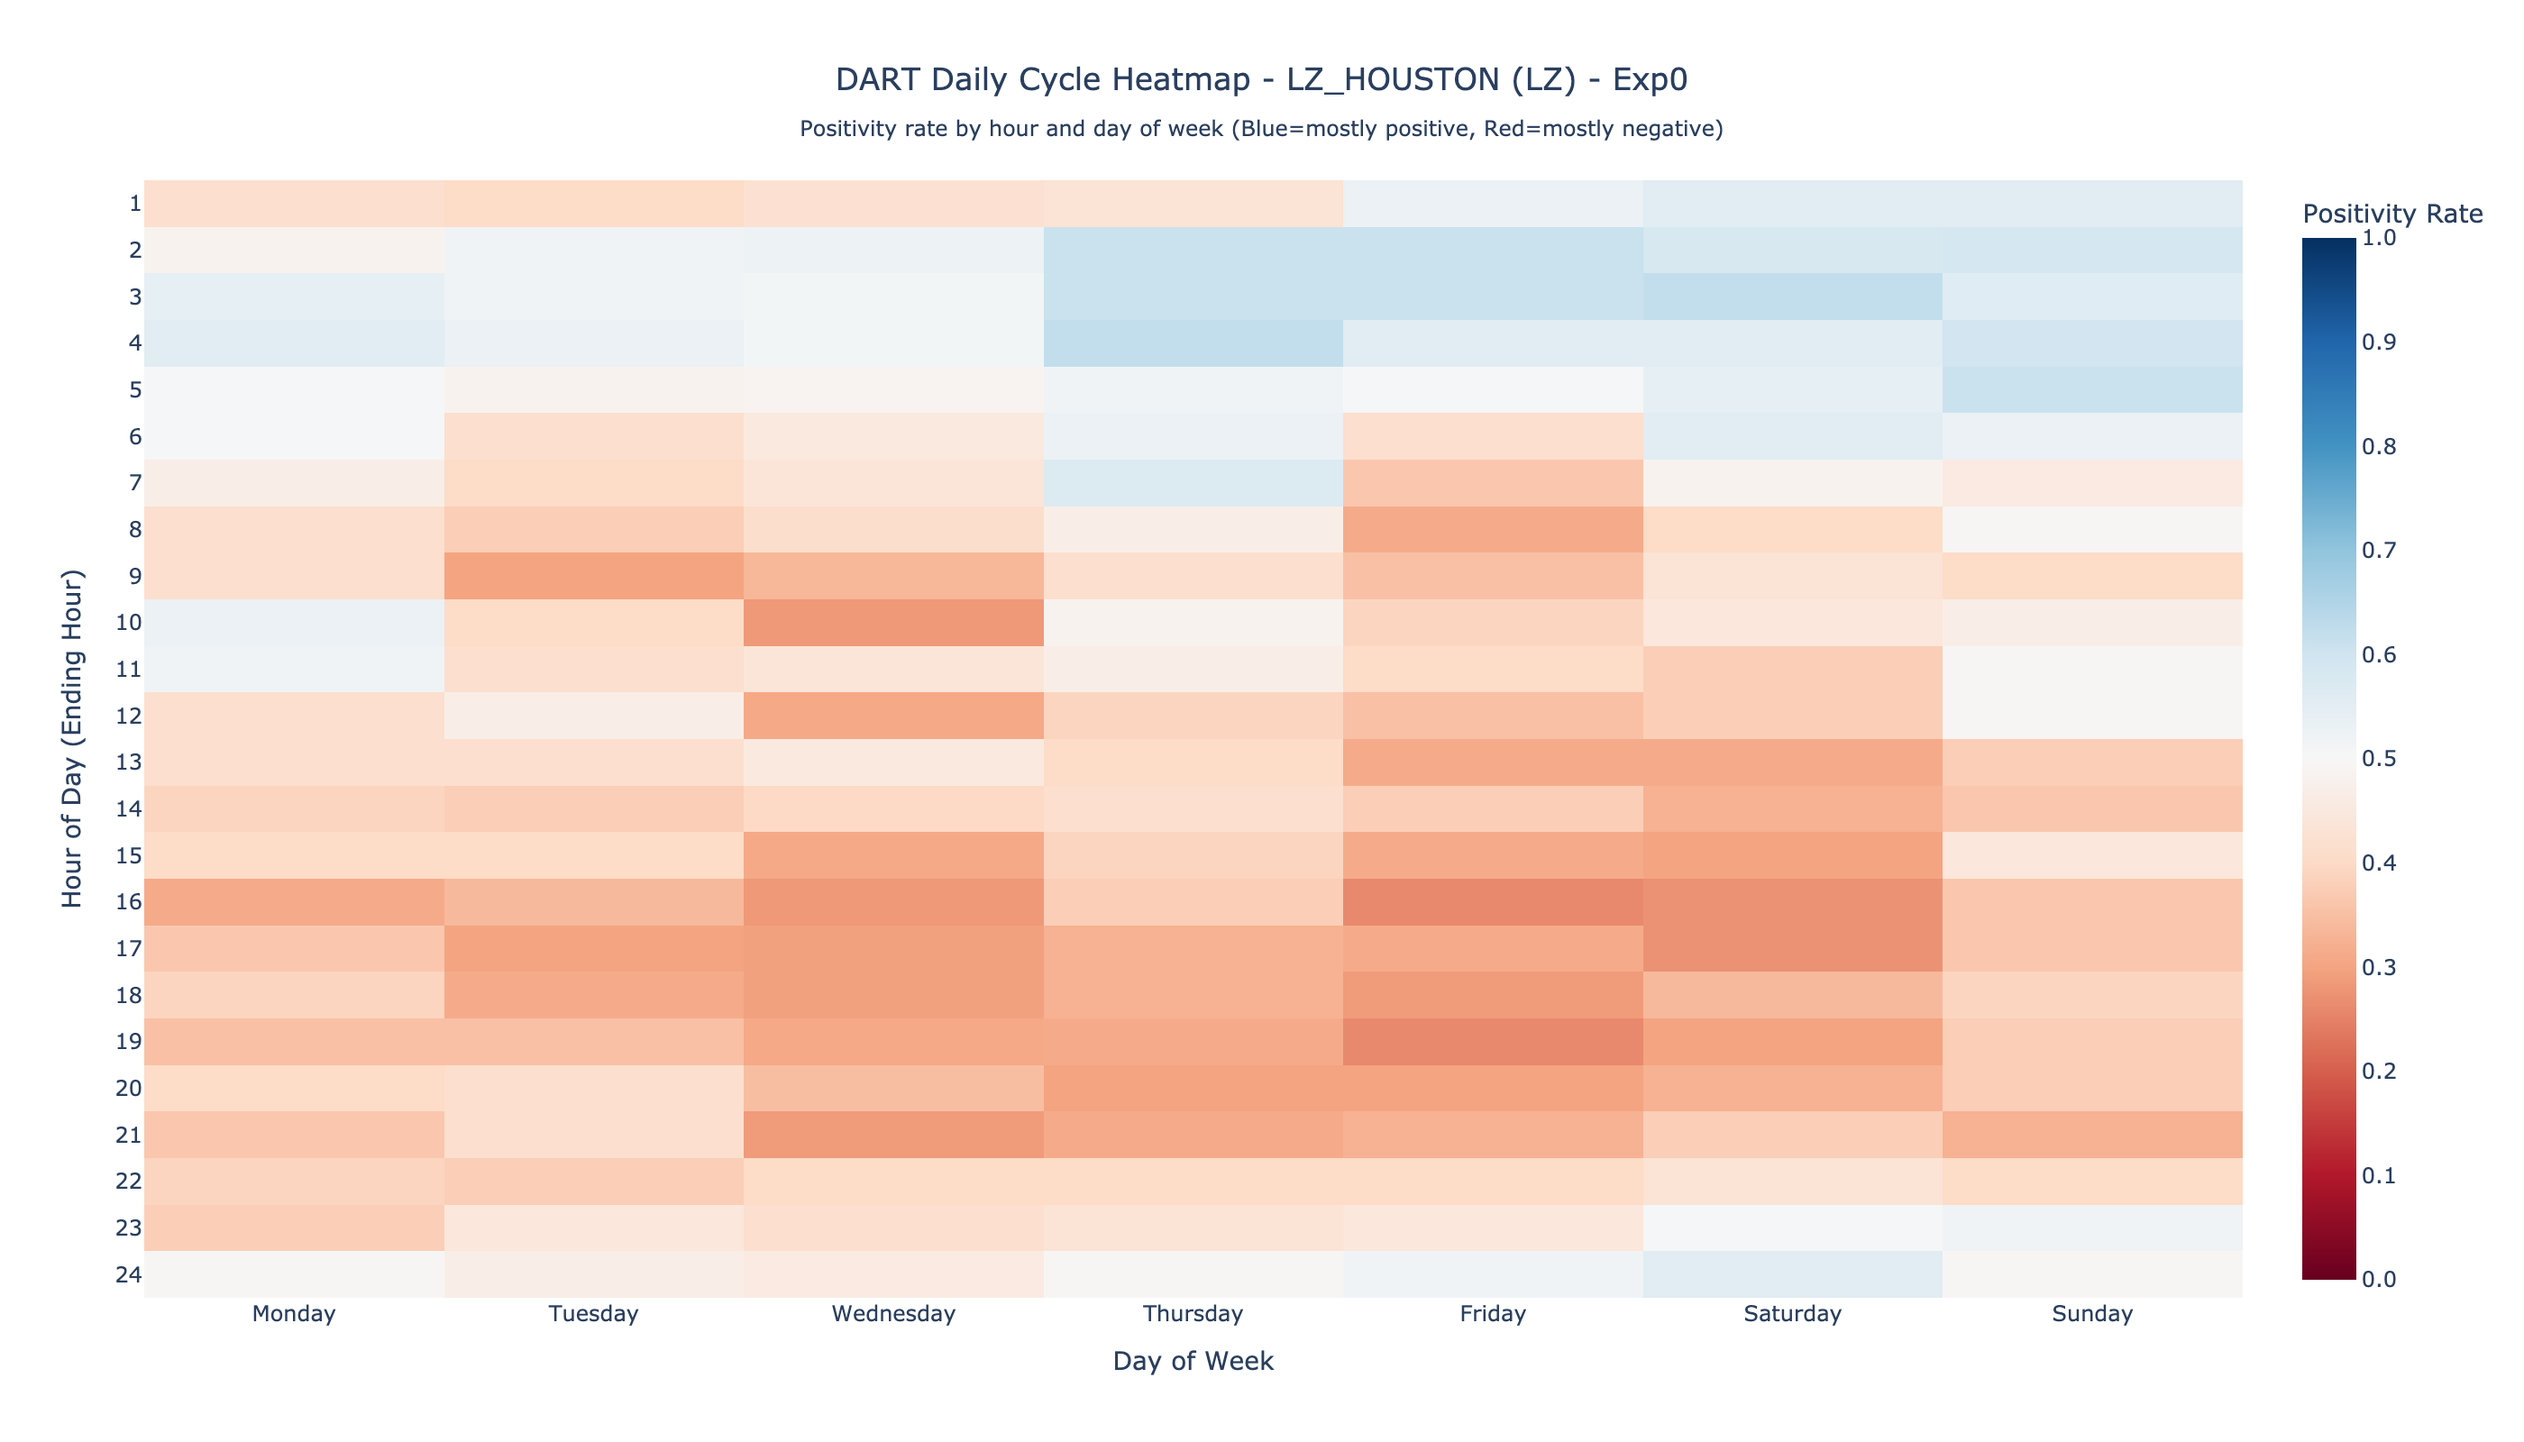
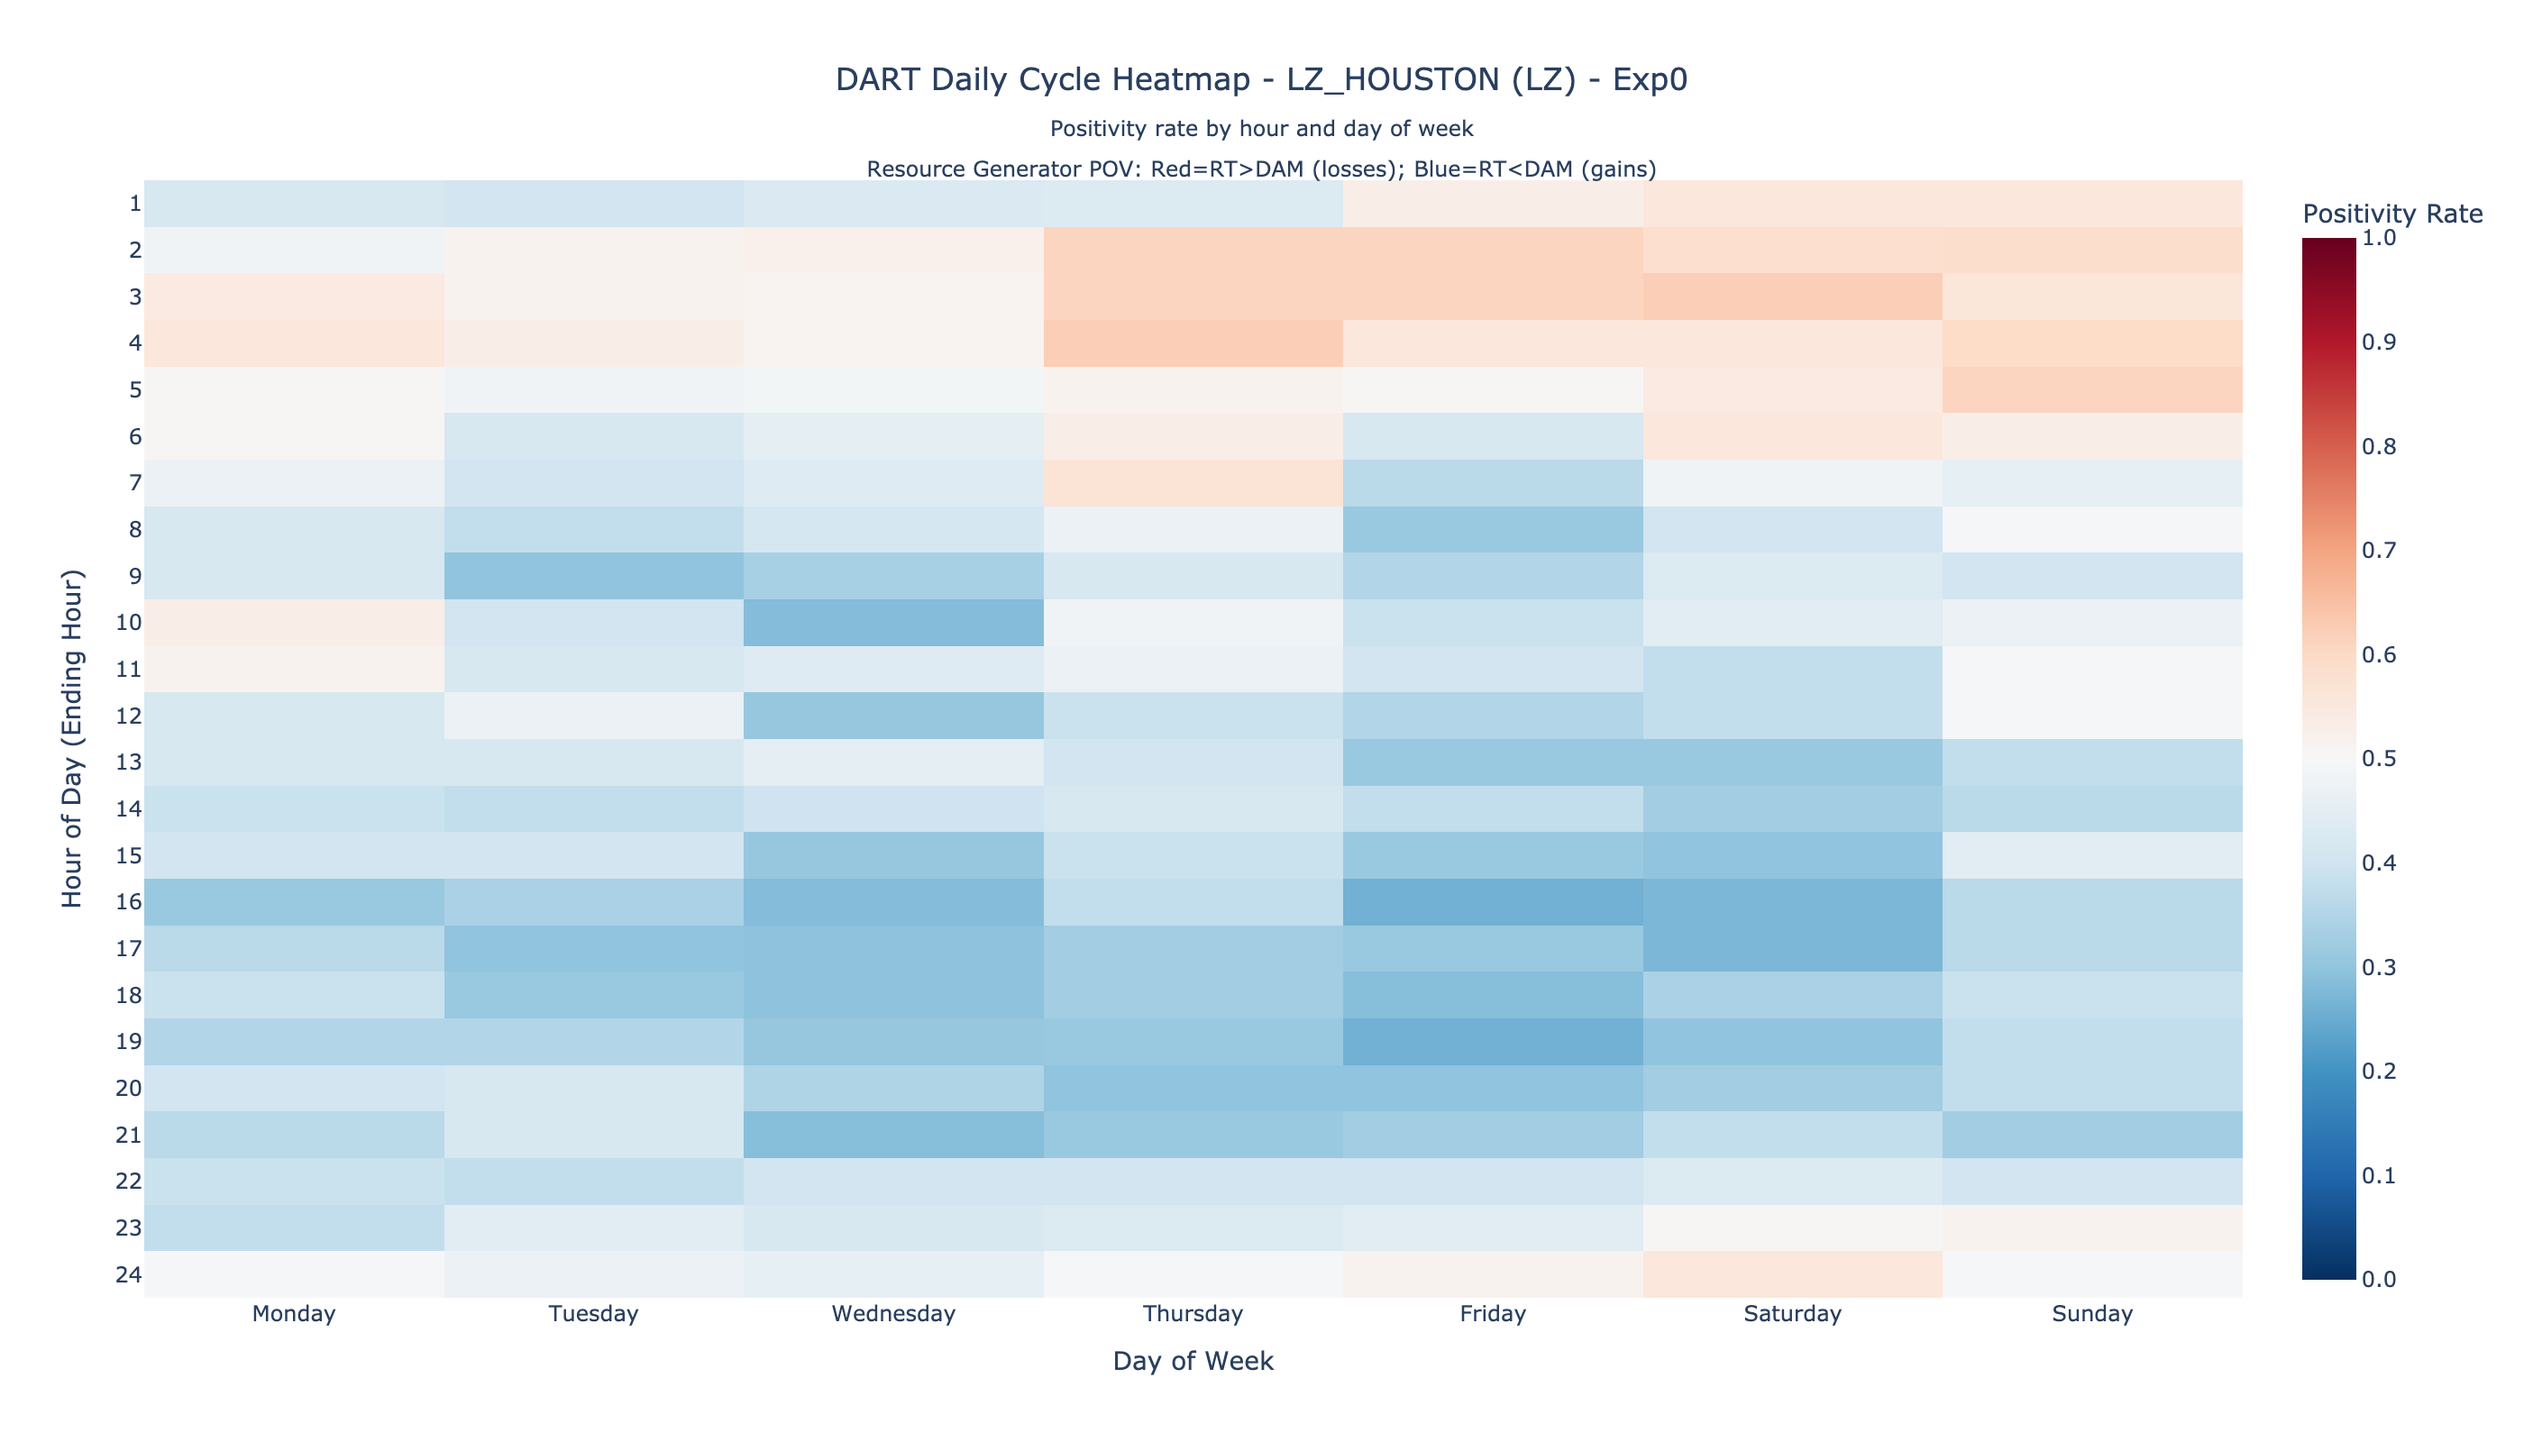
Updated plots and README

diff --git a/src/features/ercot/visualization.py b/src/features/ercot/visualization.py
@@ -2190,7 +2190,7 @@ def plot_dart_slt_sign_daily_heatmap(
             z=pivot_data.values,
             x=pivot_data.columns,
             y=pivot_data.index,
-            colorscale='RdBu',  # Red-Blue diverging scale (Red=negative dominant, Blue=positive dominant)
+            colorscale='RdBu_r',  # Red-Blue diverging scale (Red=positive dominant/losses, Blue=negative dominant/gains)
             zmid=0.5,  # Center the colorscale at 0.5 (balanced)
             zmin=0,
             zmax=1,
@@ -2208,7 +2208,7 @@ def plot_dart_slt_sign_daily_heatmap(
         # Update layout
         fig.update_layout(
             title={
-                "text": f"DART Daily Cycle Heatmap - {point}{title_suffix}<br><sub>Positivity rate by hour and day of week (Blue=mostly positive, Red=mostly negative)</sub>",
+                "text": f"DART Daily Cycle Heatmap - {point}{title_suffix}<br><sub>Positivity rate by hour and day of week<br>Resource Generator POV: Red=RT&gt;DAM (losses); Blue=RT&lt;DAM (gains)</sub>",
                 "x": 0.5,
                 "xanchor": "center"
             },
@@ -3507,3 +3507,190 @@ def plot_dart_slt_kmeans_bimodal(
             print(f"  Statistics saved to: {stats_path}")
     
     print(f"K-means bimodal analysis complete: {len(unique_points)} settlement points processed")
+
+
+def plot_dart_average_daily_heatmap(
+    df: pd.DataFrame,
+    output_dir: Path,
+    title_suffix: str = ""
+) -> None:
+    """Create daily cycle heatmap of average DART values for each settlement point.
+    
+    Creates heatmaps showing the average DART values (RT - DAM price differences) 
+    by hour of day and day of week. This reveals the actual magnitude and direction 
+    of price differences, complementing the positivity rate analysis.
+    
+    Construction approach:
+    1. Use raw DART values (not signed log transformed)
+    2. Group by hour of day (1-24) and day of week
+    3. Compute mean DART for each cell (influenced by spikes as intended)
+    4. Visualize as heatmap with diverging color scale centered at zero
+    
+    Creates separate plots for each settlement point showing:
+    - X-axis: Day of week (Monday-Sunday)
+    - Y-axis: Hour of day (1-24, ending hour)
+    - Color: Average DART value ($/MWh) (Red=negative, Blue=positive, White=neutral)
+    
+    Args:
+        df: DataFrame containing dart column, time columns, location, and location_type
+        output_dir: Directory where plots will be saved
+        title_suffix: Optional suffix to add to plot title
+    """
+    # Prepare data
+    df = df.copy()
+    
+    # Verify required columns exist
+    required_cols = ["dart", "day_of_week", "end_of_hour", "location", "location_type"]
+    missing_cols = [col for col in required_cols if col not in df.columns]
+    if missing_cols:
+        raise ValueError(f"Missing required columns: {missing_cols}")
+    
+    # Create unique identifier combining location and type
+    df["point_identifier"] = df.apply(
+        lambda row: f"{row['location']} ({row['location_type']})",
+        axis=1
+    )
+    
+    # Get unique settlement points
+    unique_points = df["point_identifier"].unique()
+    print(f"Creating average DART daily cycle heatmaps for {len(unique_points)} settlement points")
+    
+    # Create day of week mapping for better labels
+    day_mapping = {
+        0: "Monday",
+        1: "Tuesday", 
+        2: "Wednesday",
+        3: "Thursday",
+        4: "Friday",
+        5: "Saturday",
+        6: "Sunday"
+    }
+    
+    df["weekday"] = df["day_of_week"].map(day_mapping)
+    day_order = ["Monday", "Tuesday", "Wednesday", "Thursday", "Friday", "Saturday", "Sunday"]
+    
+    # Create output directory
+    output_dir.mkdir(parents=True, exist_ok=True)
+    
+    # Generate separate plot for each settlement point
+    for point in unique_points:
+        point_data = df[df["point_identifier"] == point].copy()
+        
+        # Remove NaN values
+        point_clean = point_data.dropna(subset=["dart", "weekday", "end_of_hour"]).copy()
+        
+        if len(point_clean) < 24:  # Need sufficient data
+            print(f"Warning: Insufficient data for {point} ({len(point_clean)} points), skipping")
+            continue
+        
+        # Create safe filename
+        safe_filename = point.replace(" ", "_").replace("(", "").replace(")", "").replace("/", "_")
+        
+        # Create location-specific subdirectory
+        location_dir = output_dir / safe_filename
+        location_dir.mkdir(parents=True, exist_ok=True)
+        
+        print(f"Processing {point}: {len(point_clean)} data points")
+        
+        # Group by hour and day of week, compute average DART values
+        heatmap_data = point_clean.groupby(["end_of_hour", "weekday"])["dart"].agg([
+            'mean',  # average DART value
+            'count', # sample size
+            'std',   # standard deviation
+            'min',   # minimum value
+            'max'    # maximum value
+        ]).reset_index()
+        
+        # Rename columns for clarity
+        heatmap_data.columns = ["hour", "weekday", "avg_dart", "sample_count", "std_dart", "min_dart", "max_dart"]
+        
+        # Create pivot table for heatmap
+        pivot_data = heatmap_data.pivot(index="hour", columns="weekday", values="avg_dart")
+        
+        # Reorder columns to standard week order and ensure all hours are present
+        pivot_data = pivot_data.reindex(columns=day_order, fill_value=None)
+        all_hours = list(range(1, 25))  # 1 to 24 (ending hours)
+        pivot_data = pivot_data.reindex(index=all_hours, fill_value=None)
+        
+        # Determine color scale range - symmetric around zero to show magnitude properly
+        data_values = pivot_data.values.flatten()
+        data_values = data_values[~pd.isna(data_values)]  # Remove NaN values
+        if len(data_values) > 0:
+            max_abs_value = max(abs(data_values.min()), abs(data_values.max()))
+            color_range = [-max_abs_value, max_abs_value]
+        else:
+            color_range = [-10, 10]  # Default range
+        
+        # Create the heatmap
+        fig = go.Figure(data=go.Heatmap(
+            z=pivot_data.values,
+            x=pivot_data.columns,
+            y=pivot_data.index,
+            colorscale='RdBu_r',  # Red-Blue diverging scale (Red=positive DART/losses, Blue=negative DART/gains)
+            zmid=0,  # Center the colorscale at 0 (no price difference)
+            zmin=color_range[0],
+            zmax=color_range[1],
+            hoverongaps=False,
+            hovertemplate='<b>%{y}:00 %{x}</b><br>Avg DART: $%{z:.2f}/MWh<br><extra></extra>',
+            colorbar=dict(
+                title="Average DART ($/MWh)",
+                tickformat=".1f"
+            )
+        ))
+        
+        # Update layout
+        fig.update_layout(
+            title={
+                "text": f"Average DART Daily Cycle Heatmap - {point}{title_suffix}<br><sub style='color:{PROFESSIONAL_COLORS['text']}'>Average price difference (RT - DAM) by hour and day<br>Resource Generator POV: Red=RT&gt;DAM (losses); Blue=RT&lt;DAM (gains)</sub>",
+                "x": 0.5,
+                "xanchor": "center",
+                "font": {"size": 16, "color": PROFESSIONAL_COLORS['text']}
+            },
+            xaxis_title="Day of Week",
+            yaxis_title="Hour of Day (Ending Hour)",
+            height=600,
+            width=900,  # Slightly wider to accommodate color bar
+            xaxis=dict(
+                tickmode="array",
+                tickvals=day_order,
+                ticktext=day_order,
+                title_font=dict(color=PROFESSIONAL_COLORS['text']),
+                tickfont=dict(color=PROFESSIONAL_COLORS['text'])
+            ),
+            yaxis=dict(
+                tickmode="linear",
+                tick0=1,
+                dtick=1,
+                autorange="reversed",  # Hour 1 at top, 24 at bottom
+                title_font=dict(color=PROFESSIONAL_COLORS['text']),
+                tickfont=dict(color=PROFESSIONAL_COLORS['text'])
+            ),
+            paper_bgcolor='white',
+            plot_bgcolor='white'
+        )
+        
+        # Save individual plot
+        output_path = location_dir / f"dart_average_daily_heatmap_{safe_filename}.html"
+        fig.write_html(output_path)
+        print(f"  Plot saved to: {output_path}")
+        
+        # Save PNG version
+        png_path = location_dir / f"dart_average_daily_heatmap_{safe_filename}.png"
+        fig.write_image(png_path, width=1400, height=800, scale=2)
+        print(f"  PNG saved to: {png_path}")
+        
+        # Save detailed statistics
+        heatmap_stats = heatmap_data.copy()
+        heatmap_stats["Settlement_Point"] = point
+        
+        # Reorder columns for better readability
+        heatmap_stats = heatmap_stats[[
+            "Settlement_Point", "weekday", "hour", "sample_count", 
+            "avg_dart", "std_dart", "min_dart", "max_dart"
+        ]]
+        
+        stats_path = location_dir / f"dart_average_daily_heatmap_stats_{safe_filename}.csv"
+        heatmap_stats.to_csv(stats_path, index=False)
+        print(f"  Statistics saved to: {stats_path}")
+    
+    print(f"Average DART daily cycle heatmap analysis complete: {len(unique_points)} settlement points processed")

diff --git a/src/features/ercot/exp0/dataset.py b/src/features/ercot/exp0/dataset.py
@@ -20,6 +20,7 @@ from ..visualization import (
     plot_dart_slt_sign_transitions,
     plot_dart_slt_kmeans_unimodal,
     plot_dart_slt_kmeans_bimodal,
+    plot_dart_average_daily_heatmap,
 )
 
 
@@ -233,6 +234,13 @@ class Exp0Dataset(ExpDataset):
             output_dir=self.output_dir,
             title_suffix=" - Exp0",
             max_k=10
+        )
+
+        # 18. Average DART daily cycle heatmap analysis
+        plot_dart_average_daily_heatmap(
+            df=result_df,
+            output_dir=self.output_dir,
+            title_suffix=" - Exp0"
         )
 
         return result_df

diff --git a/README.md b/README.md
@@ -85,10 +85,23 @@ Power spectrum of the SLT series:
 
 ![Sign Heatmap](reports/figures/initial_dart_houston/dart_slt_sign_daily_heatmap_LZ_HOUSTON_LZ.png)
 
-Hourly sign probability by day of week shows:
+Hourly sign probability by day of week and hour shows:
 - Consistently **negative DARTs** during business hours
+  - Counterintuitive?  Could make sense if DAM forecasts tend to be conservative?
 - Higher **positive DART** probability overnight and early morning
 - Weekends display flatter patterns
+
+![DART Average Heatmap](reports/figures/initial_dart_houston/dart_average_daily_heatmap_LZ_HOUSTON_LZ.png)
+
+Hourly average DART by day of week and hour shows:
+- Interpreted from the perspective of a **resource generator bidding into DAM**
+  - **Positive DART (RT > DAM)** → **loss**: the generator misses potential upside by locking in a lower DAM price (red)
+  - **Negative DART (RT < DAM)** → **gain**: the generator benefits from locking in a higher DAM price ahead of a lower real-time outcome (blue)
+- Interpret very carefully, because we're looking at an aggregate view
+  - Timespan of interest: **early weekday mornings**
+  - **Gains** are more sporadic and tend to cluster overnight or late at night
+  - Highlights the **risk asymmetry** and the value of selective hedging
+  - These are first impressions only.  Do not trade based on this figure.
 
 ---
 
